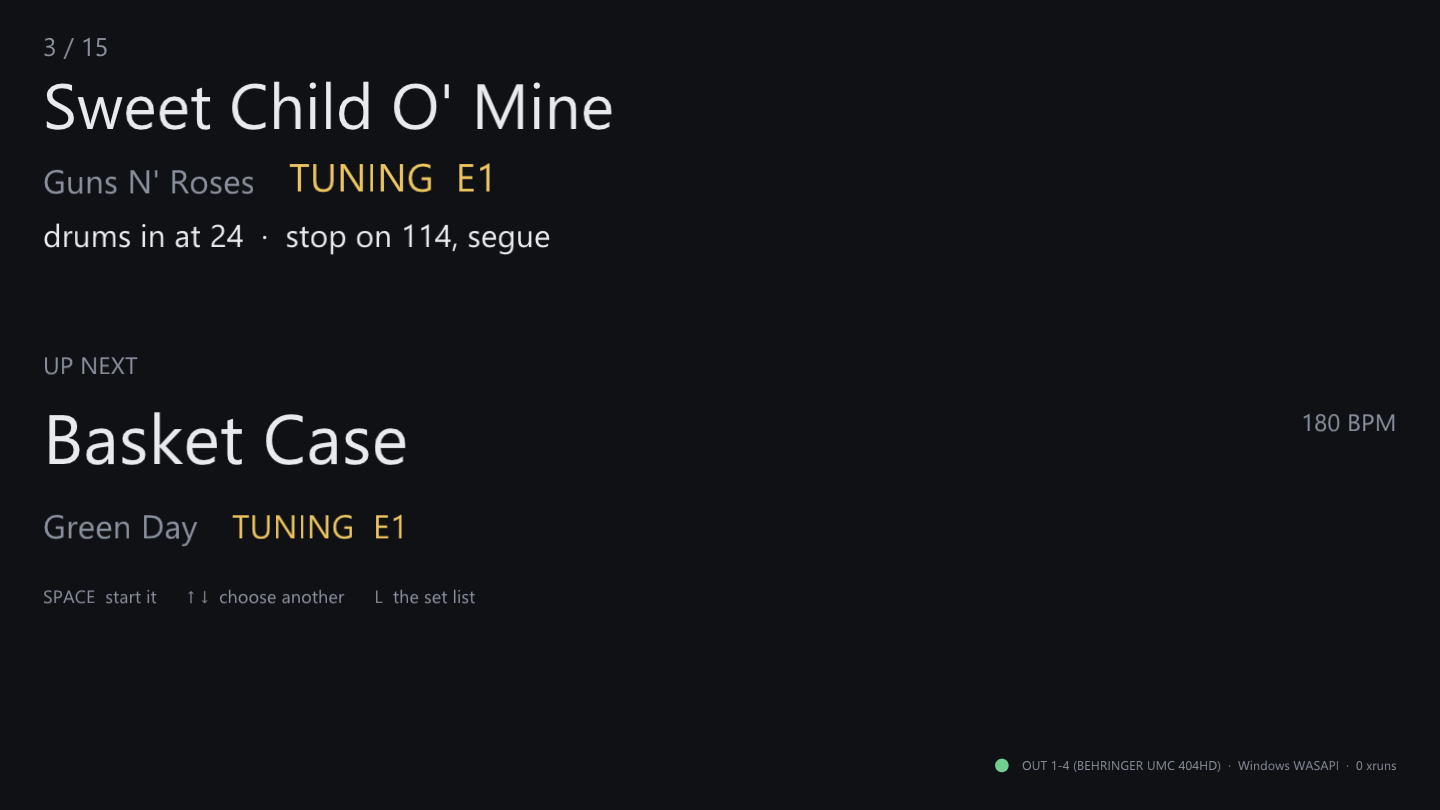
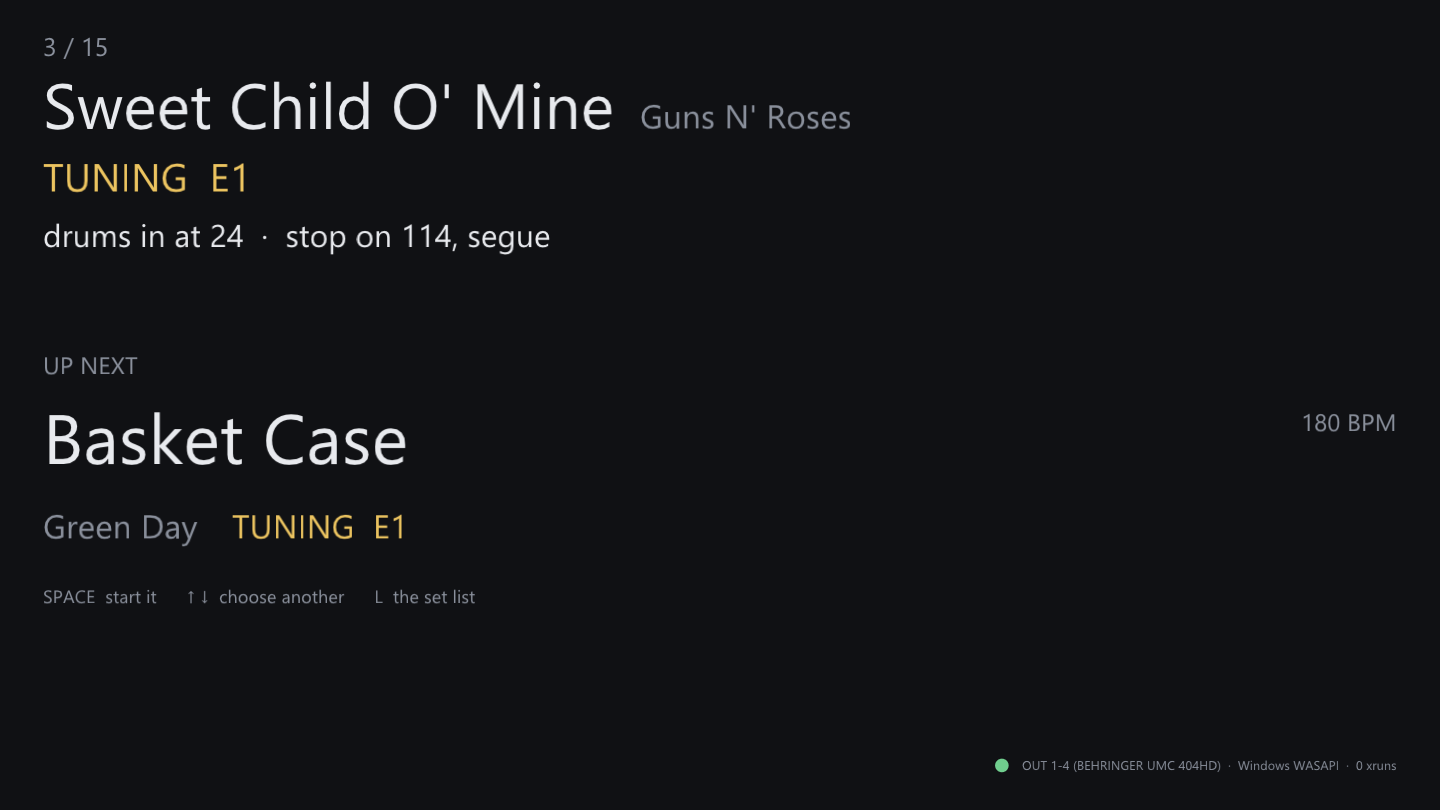
Renaming a song keeps its light cues, and the stage header reads on one line
**The bug.** Cues are matched to a song by title and nothing else, so the
moment a title changed the song was matched to nothing: the editor's
lighting section emptied as you typed, and the cues sat in the file under a
name no song had any more. Copying a template song and retitling the copy -
which is the reason to have a template song - hit it every time.

The cue file's entry is now renamed with the song, on commit rather than per
keystroke, since "Low Rider" arrives one letter at a time and any prefix of
it could collide with a real title. Cues already filed under the new title
are left alone and the song matches those instead; the editor says so, and
nothing is destroyed to make room.

Renaming the entry rather than giving songs an id of their own. The cue file
is written by the lighting side too, from song titles, so an id would have
to be agreed, generated and kept in step over there as well - and a file
with two keys has two ways to disagree with the set list instead of one. The
cost is that a song renamed here must be renamed on the lighting side before
the show is next generated, which the docs now say.

**The play screen.** The artist moves up beside the title: one line is one
answer to "what is this", and it leaves the line below to the tuning, which
is the thing somebody has to act on. It drops back to its own line when the
title is long enough that the pair would run under the bar number.
[…]

Changed region(s): [[0.1875, 0.1852, 0.3438, 0.2469], [0.0312, 0.1852, 0.1875, 0.2469], [0.4375, 0.1235, 0.5938, 0.1543]]

diff --git a/tests/test_lightshow.c b/tests/test_lightshow.c
@@ -543,6 +543,91 @@ static void test_copying_a_songs_cues(void) {
 
 /* Cues are in bar order in the file (contract section 4), and adding one
  * appends it, so something has to put them back in order after an edit. */
+/* Renaming a song in the set list has to take its cues with it, or typing a
+ * new title silently unhooks a song from every cue it had - the file still
+ * holds them, under a name nothing matches any more. */
+static void test_renaming_a_song(void) {
+    bt_lightshow *sh = NULL;
+    const char *src =
+        "{\"format\":\"random-riot-lighting/1\",\"songs\":"
+        "[{\"title\":\"Generic\",\"events\":["
+        "{\"bar\":1,\"ch\":1,\"note\":5,\"label\":\"intro\"},"
+        "{\"bar\":17,\"ch\":2,\"note\":6,\"type\":\"hit\"}]}]}";
+    BT_CHECK(bt_lightshow_load_mem(src, strlen(src), &sh, NULL) == BT_OK);
+
+    BT_CHECK(bt_lightshow_rename_song(sh, "Generic", "Black Hole Sun") == BT_OK);
+    BT_CHECK_EQI(sh->nsongs, 1);
+    BT_CHECK(bt_lightshow_find(sh, "Generic") == NULL);
+    const bt_light_song *ls = bt_lightshow_find(sh, "Black Hole Sun");
+    BT_CHECK(ls != NULL);
+    if (!ls) { bt_lightshow_free(sh); return; }
+    BT_CHECK_EQI(ls->nev, 2);
+    BT_CHECK(!strcmp(ls->ev[0].label, "intro"));
+
+    /* A song with no cues has no entry, and renaming it writes none: an
+     * empty song in a file the lighting side also reads is noise. */
+    const int32_t before = sh->nsongs;
+    BT_CHECK(bt_lightshow_rename_song(sh, "Never Heard Of It", "Fresh") == BT_OK);
+    BT_CHECK(bt_lightshow_find(sh, "Fresh") == NULL);
+    BT_CHECK_EQI(sh->nsongs, before);
+
+    /* An empty entry under the new name is dropped rather than renamed
+     * around: two entries with one title is a file no reader can use. */
+    BT_CHECK(bt_lightshow_add_cue(sh, "Spoonman", NULL) == BT_OK);
+    BT_CHECK(bt_lightshow_remove_cue(sh, "Spoonman", 0) == BT_OK);
+    BT_CHECK_EQI(sh->nsongs, 2);
+    BT_CHECK(bt_lightshow_rename_song(sh, "Black Hole Sun", "Spoonman") == BT_OK);
+    BT_CHECK_EQI(sh->nsongs, 1);
+    BT_CHECK_EQI(bt_lightshow_find(sh, "Spoonman")->nev, 2);
+
+    /* A new name that already has cues of its own is refused outright. The
+     * song matches those now - that is what title matching means - and
+     * destroying them to make room would be the worse of the two. */
+    BT_CHECK(bt_lightshow_add_cue(sh, "Rusty Cage", NULL) == BT_OK);
+    BT_CHECK(bt_lightshow_rename_song(sh, "Spoonman", "Rusty Cage")
+             == BT_ERR_EXISTS);
+    BT_CHECK_EQI(bt_lightshow_find(sh, "Rusty Cage")->nev, 1);
+    BT_CHECK_EQI(bt_lightshow_find(sh, "Spoonman")->nev, 2);
+
+    /* The same, with the empty entry *before* the song being renamed: it is
+     * dropped out of the array first, so the song has moved down a slot by
+     * the time it is given its new name. Getting that wrong renames the
+     * wrong song, and nothing about the file would look broken. */
+    {
+        bt_lightshow *sh2 = NULL;
+        const char *two =
+            "{\"format\":\"random-riot-lighting/1\",\"songs\":"
+            "[{\"title\":\"Placeholder\",\"events\":[]},"
+            "{\"title\":\"Generic\",\"events\":[{\"bar\":4,\"ch\":1,\"note\":7}]}]}";
+        BT_CHECK(bt_lightshow_load_mem(two, strlen(two), &sh2, NULL) == BT_OK);
+        BT_CHECK_EQI(sh2->nsongs, 2);
+        BT_CHECK(bt_lightshow_rename_song(sh2, "Generic", "Placeholder") == BT_OK);
+        BT_CHECK_EQI(sh2->nsongs, 1);
+        BT_CHECK(!strcmp(sh2->song[0].title, "Placeholder"));
+        BT_CHECK_EQI(sh2->song[0].nev, 1);
+        BT_CHECK_EQI(sh2->song[0].ev[0].bar, 4);
+        bt_lightshow_free(sh2);
+    }
+
+    /* Onto itself, and nonsense. */
+    BT_CHECK(bt_lightshow_rename_song(sh, "Spoonman", "Spoonman") == BT_OK);
+    BT_CHECK_EQI(bt_lightshow_find(sh, "Spoonman")->nev, 2);
+    BT_CHECK(bt_lightshow_rename_song(sh, "Spoonman", "") == BT_ERR_RANGE);
+    BT_CHECK(bt_lightshow_rename_song(NULL, "a", "b") == BT_ERR_RANGE);
+
+    /* And the rename survives the round trip, which is the only part of it
+     * that reaches the next launch. */
+    char *text = NULL; size_t len = 0;
+    BT_CHECK(bt_lightshow_to_json(sh, &text, &len) == BT_OK);
+    bt_lightshow *back = NULL;
+    BT_CHECK(bt_lightshow_load_mem(text, len, &back, NULL) == BT_OK);
+    BT_CHECK(bt_lightshow_find(back, "Generic") == NULL);
+    BT_CHECK_EQI(bt_lightshow_find(back, "Spoonman")->nev, 2);
+    free(text);
+    bt_lightshow_free(back);
+    bt_lightshow_free(sh);
+}
+
 static void test_sorting_cues_by_bar(void) {
     bt_lightshow *sh = NULL;
     const char *src =
@@ -728,6 +813,7 @@ int main(void) {
     BT_RUN(test_adding_and_removing_cues);
     BT_RUN(test_copying_a_songs_cues);
     BT_RUN(test_sorting_cues_by_bar);
+    BT_RUN(test_renaming_a_song);
     BT_RUN(test_the_format_tag_follows_the_content);
     BT_RUN(test_reads_both_contract_versions);
     BT_RUN(test_a_count_in_cue_lands_before_the_downbeat);

diff --git a/ui/bt_ui_screens.cpp b/ui/bt_ui_screens.cpp
@@ -426,12 +426,33 @@ void draw_playing(ImDrawList *dl, const bt_ui_state &st, ImVec2 sz) {
 
     if (s) {
         const float title_sz = sz.y * 0.105f;
-        text_at(dl, f, title_sz, ImVec2(pad, sz.y * 0.075f), COL_TEXT, s->title);
+        const float sub_sz   = sz.y * 0.055f;
+        const float title_y  = sz.y * 0.075f;
+        text_at(dl, f, title_sz, ImVec2(pad, title_y), COL_TEXT, s->title);
         float ay = sz.y * 0.195f;
         float ax = pad;
         if (s->artist[0]) {
-            text_at(dl, f, sz.y * 0.055f, ImVec2(ax, ay), COL_DIM, s->artist);
-            ax += text_w(f, sz.y * 0.055f, s->artist) + pad * 0.8f;
+            /* Beside the title, not under it: "song by artist" is one
+             * answer to one question and reads faster on one line - and it
+             * leaves the line below to the tuning, which is the thing
+             * somebody actually has to act on.
+             *
+             * Unless it does not fit. The bar number owns the top right
+             * corner, and a long title plus a long artist would run
+             * underneath it; then the artist goes back to its own line,
+             * which is only where it used to live. */
+            const float x = pad + text_w(f, title_sz, s->title) + pad * 0.6f;
+            const float room = sz.x - pad * 2.0f
+                             - text_w(f, sz.y * 0.110f, "000");
+            if (x + text_w(f, sub_sz, s->artist) < room) {
+                /* Onto the title's baseline rather than its top edge. */
+                text_at(dl, f, sub_sz,
+                        ImVec2(x, title_y + (title_sz - sub_sz) * 0.78f),
+                        COL_DIM, s->artist);
+            } else {
+                text_at(dl, f, sub_sz, ImVec2(ax, ay), COL_DIM, s->artist);
+                ax += text_w(f, sub_sz, s->artist) + pad * 0.8f;
+            }
         }
         /* Beside the artist, in the warm colour it has everywhere else, so
          * glancing up mid-song answers "am I on the right guitar". */
@@ -443,7 +464,7 @@ void draw_playing(ImDrawList *dl, const bt_ui_state &st, ImVec2 sz) {
              * a stage. Nudged down by the difference so the two still sit on
              * one baseline rather than one appearing to float. */
             const float tun_sz = sz.y * 0.065f;
-            text_at(dl, f, tun_sz, ImVec2(ax, ay - (tun_sz - sz.y * 0.055f)),
+            text_at(dl, f, tun_sz, ImVec2(ax, ay - (tun_sz - sub_sz)),
                     COL_ACCENT_T, lbl);
         }
         /* Whatever you wrote to read mid-song. Under the title line, in plain
@@ -480,17 +501,17 @@ void draw_playing(ImDrawList *dl, const bt_ui_state &st, ImVec2 sz) {
          * below it: this is for the far side of the stage too, but a note
          * somebody wrote for tonight outranks the name of a lighting look. */
         const float ly  = sz.y * 0.322f;
-        const float nsz = sz.y * 0.044f;    /* the name          */
-        const float lsz = sz.y * 0.028f;    /* label, and what is next */
+        const float nsz = sz.y * 0.044f;    /* the name        */
+        const float lsz = sz.y * 0.028f;    /* what is next    */
         const float drop = (nsz - lsz) * 0.78f;   /* onto one baseline */
         float x = pad;
 
-        text_at(dl, f, lsz, ImVec2(x, ly + drop), COL_DIM, "LIGHTS");
-        x += text_w(f, lsz, "LIGHTS") + pad * 0.5f;
-
-        /* Before the first cue of a song there is no look to name, and a cue
+        /* No "LIGHTS" in front of it. The blue is what says which line this
+         * is, and a word repeated on screen all night is clutter.
+         *
+         * Before the first cue of a song there is no look to name, and a cue
          * may have been left with no description at all. The dash says so;
-         * a label with nothing after it would read as a bug. */
+         * an empty space where a name goes reads as a bug. */
         const char *now = (st.cue_now && st.cue_now[0]) ? st.cue_now : "-";
         text_at(dl, f, nsz, ImVec2(x, ly), COL_ACCENT, now);
         x += text_w(f, nsz, now) + pad * 0.7f;

diff --git a/ui/btui_main.cpp b/ui/btui_main.cpp
@@ -1848,9 +1848,47 @@ int main(int argc, char **argv) {
                 if (g_edit.can_save_device)
                     bt_device_cfg_save_file(&g_app.dev, g_edit.device_path);
             }
-            /* The two the contract says a person may press: between songs,
-             * and everything off. Sent only because somebody asked - never
-             * on stopping, where stale light beats a surprise. */
+            /* A renamed song keeps its cues: the entry in the cue file is
+             * renamed with it. Title is the only key the file has - §3 of
+             * the contract - so without this, retitling a song leaves its
+             * cues in the file under a name nothing matches, and the
+             * lighting section empties in front of you.
+             *
+             * Renaming the entry rather than giving songs an id of their
+             * own: the cue file is generated by the lighting side from song
+             * titles, so an id would have to be agreed, generated and kept
+             * in step over there too, and a file with two keys has two ways
+             * to disagree with the set list instead of one. */
+            if (g_edit.renamed_from[0]) {
+                const char *from = g_edit.renamed_from;
+                if (g_app.show && g_app.sl && !g_app.show_broken &&
+                    g_edit.song >= 0 && g_edit.song < g_app.sl->nsongs &&
+                    bt_lightshow_find(g_app.show, from)) {
+                    const char *to = g_app.sl->song[g_edit.song].title;
+                    const bt_err re = bt_lightshow_rename_song(g_app.show,
+                                                               from, to);
+                    const bt_light_song *ls = bt_lightshow_find(g_app.show, to);
+                    if (re == BT_OK && ls) {
+                        g_edit.cues_dirty = true;
+                        std::snprintf(g_edit.status, sizeof(g_edit.status),
+                                      "renamed - its %d light cue%s came "
+                                      "along; save to keep them",
+                                      ls->nev, ls->nev == 1 ? "" : "s");
+                    } else if (re == BT_ERR_EXISTS) {
+                        std::snprintf(g_edit.status, sizeof(g_edit.status),
+                                      "there were already light cues for "
+                                      "\"%s\" - this song uses those now, and "
+                                      "the old ones are still under \"%s\"",
+                                      to, from);
+                    } else if (re != BT_OK) {
+                        std::snprintf(g_edit.status, sizeof(g_edit.status),
+                                      "renamed, but its light cues did not "
+                                      "follow: %s", bt_strerror(re));
+                    }
+                }
+                g_edit.renamed_from[0] = 0;
+            }
+
             /* Adding and removing change the length of the array the
              * editor is pointing into, so they happen here rather than
              * while drawing. */
@@ -1915,6 +1953,9 @@ int main(int argc, char **argv) {
                 g_app.cue_song = -1;
             }
 
+            /* The two the contract says a person may press: between songs,
+             * and everything off. Sent only because somebody asked - never
+             * on stopping, where stale light beats a surprise. */
             if (g_edit.want_special != 0 && g_app.midi && g_app.show) {
                 const char *which = g_edit.want_special == 1 ? "between_songs"
                                                              : "stop_all";

diff --git a/src/model/bt_lightshow.c b/src/model/bt_lightshow.c
@@ -242,6 +242,43 @@ bt_err bt_lightshow_copy_song(bt_lightshow *show, const char *from,
     return BT_OK;
 }
 
+bt_err bt_lightshow_rename_song(bt_lightshow *show, const char *from,
+                                const char *to) {
+    if (!show || !from || !*from || !to || !*to) return BT_ERR_RANGE;
+    if (!strcmp(from, to)) return BT_OK;
+
+    int32_t si = -1, di = -1;
+    for (int32_t i = 0; i < show->nsongs; i++) {
+        if (!strcmp(show->song[i].title, from)) si = i;
+        if (!strcmp(show->song[i].title, to))   di = i;
+    }
+    /* A song with no cues renames to nothing at all, which is right: there
+     * is no entry for it and writing one would put an empty song into a
+     * file the lighting side also reads. */
+    if (si < 0) return BT_OK;
+
+    if (di >= 0 && di != si) {
+        /* Something already lights under the new name. Taking it over would
+         * destroy a show somebody built, so refuse and leave both where
+         * they are - the song now matches the cues already filed under its
+         * new title, which is exactly what title matching means, and the
+         * old ones are still there under the old title. */
+        if (show->song[di].nev > 0) return BT_ERR_EXISTS;
+
+        /* An empty entry is not a show. It is dropped rather than renamed
+         * around, because two entries with one title is a file no reader
+         * can make sense of. */
+        free(show->song[di].ev);
+        memmove(&show->song[di], &show->song[di + 1],
+                (size_t)(show->nsongs - di - 1) * sizeof(*show->song));
+        show->nsongs--;
+        if (si > di) si--;
+    }
+
+    snprintf(show->song[si].title, sizeof(show->song[si].title), "%s", to);
+    return BT_OK;
+}
+
 int32_t bt_lightshow_sort_song(bt_lightshow *show, const char *title,
                                int32_t track) {
     bt_light_song *ls = bt_lightshow_song(show, title);

diff --git a/include/backtrack/bt_lightshow.h b/include/backtrack/bt_lightshow.h
@@ -130,6 +130,27 @@ bt_err bt_lightshow_remove_cue(bt_lightshow *show, const char *title, int32_t at
 bt_err bt_lightshow_copy_song(bt_lightshow *show, const char *from,
                               const char *to);
 
+/* Carries a song's cues across to a new title, which is what renaming a song
+ * in the set list means for its lighting.
+ *
+ * Cues are matched to a song by title and nothing else - §3 of the contract -
+ * so without this, typing a new title into the editor silently unhooks the
+ * song from every cue it had. That is the whole bug: the cues are still in
+ * the file, under a name no song has any more.
+ *
+ * Renaming the entry rather than giving songs an id is deliberate. The cue
+ * file is written by the lighting side as well, from song titles; an id
+ * would have to be agreed, generated and kept in step over there too, and a
+ * file with two keys has two ways to disagree with the set list instead of
+ * one.
+ *
+ * A `from` with no entry is not an error - a song with no lighting renames
+ * like any other. BT_ERR_EXISTS means `to` already has cues of its own: they
+ * are left alone, which leaves the song matched to them.
+ */
+bt_err bt_lightshow_rename_song(bt_lightshow *show, const char *from,
+                                const char *to);
+
 /* Puts one song's cues in bar order, which is the order §4 of the contract
  * says a cue file is in. Adding a cue appends it, so this is what keeps that
  * true after an edit; it is also the whole of "the table is sorted", since

diff --git a/ui/bt_ui_edit.cpp b/ui/bt_ui_edit.cpp
@@ -766,6 +766,20 @@ void draw_song_screen(bt_ui_edit &ed) {
 
     ImGui::SetNextItemWidth(360);
     if (ImGui::InputText("title", s.title, sizeof(s.title))) ed.dirty = true;
+    /* A renamed song keeps its lighting. Cues are matched to a song by title
+     * and nothing else, so the moment this field changes the song is matched
+     * to nothing - which is exactly what copying a song to use as a starting
+     * point runs into, since the next thing you do is retitle it.
+     *
+     * On commit, not per keystroke: typing "Low Rider" would otherwise walk
+     * the cue entry through "L", "Lo", "Low"..., and any one of those could
+     * collide with a real title. */
+    if (ImGui::IsItemActivated())
+        std::snprintf(ed.title_was, sizeof(ed.title_was), "%s", s.title);
+    if (ImGui::IsItemDeactivatedAfterEdit() && ed.title_was[0] && s.title[0] &&
+        std::strcmp(ed.title_was, s.title) != 0)
+        std::snprintf(ed.renamed_from, sizeof(ed.renamed_from), "%s",
+                      ed.title_was);
     ImGui::SameLine();
     ImGui::SetNextItemWidth(300);
     if (ImGui::InputText("artist", s.artist, sizeof(s.artist))) ed.dirty = true;

diff --git a/ui/bt_ui_edit.h b/ui/bt_ui_edit.h
@@ -93,6 +93,16 @@ struct bt_ui_edit {
      * a copy has to take a new one, so nothing else would carry them.
      * Empty when no copy is waiting; the host clears it. */
     char             cloned_from[BT_MAX_NAME] = {0};
+    /* Set when a song's title was changed, holding what it was called
+     * before, so the host can carry its light cues across to the new title.
+     * Cues are matched by title and nothing else, so without this, renaming
+     * a song unhooks it from every cue it had and the editor's lighting
+     * section empties as you type. Empty when nothing is waiting; the host
+     * clears it. `title_was` is how the change is noticed: the title as it
+     * stood when the field was clicked into, compared on commit rather than
+     * per keystroke, since "Black Hole Sun" arrives one letter at a time. */
+    char             renamed_from[BT_MAX_NAME] = {0};
+    char             title_was[BT_MAX_NAME] = {0};
     /* Set when an edit changed the song but not what it sounds like, so the
      * signature moves on without asking the engine to republish. */
     bool             sig_only = false;

diff --git a/docs/lighting.md b/docs/lighting.md
@@ -61,6 +61,22 @@ working on stays highlighted so you can see where it went.
 **Copying a song copies its cues.** Cues are matched to a song by title and a
 copy has to take a new title, so without this the copy would come up dark.
 
+**Renaming a song renames its cues**, for the same reason and more urgently:
+title is the only key the cue file has, so a retitled song would otherwise be
+matched to nothing and the editor's lighting section would empty as you
+typed. The entry is renamed when you finish typing the title, not per
+keystroke. If cues already exist under the new title they are left alone and
+the song matches those instead - the editor says so, and the old ones are
+still in the file under the old name.
+
+Renaming the entry is deliberately not the same as giving each song an id.
+The cue file is written by the lighting side as well, from song titles; an id
+would have to be agreed, generated and kept in step over there too, and a
+file with two keys has two ways to disagree with the set list instead of one.
+What this does mean is that **a song renamed here has to be renamed on the
+lighting side as well** before the show is next generated, or the generator
+will write the old title back in as a second entry.
+
 **The look showing has its name on the play screen**, under the song and the
 band's own note, with the bar of the next change beside it. That is the
 `label` from the cue file - §3 calls it UI-only and this is the UI it is for.

diff --git a/README.md b/README.md
@@ -123,9 +123,11 @@ than the song actually counts in for, because that cue would never fire.
 when you finish typing the bar, not while you type it, and the row stays
 highlighted so you can see where it went.
 
-**Copying a song copies its lighting.** That is most of why you would copy
-one - the same arrangement with a different vocal, or a cover played twice in
-a night.
+**Copying a song copies its lighting, and renaming one keeps it.** Copying is
+most of why you would have a template song at all - a generic set of cues to
+start from - and the next thing you do is retitle the copy. Cues are matched
+to a song by its title, so the rename carries them across; otherwise the copy
+would go dark the moment you named it.
 
 **You can tap the cues in by ear.** Finding the bar a look should change on
 means playing the song and listening for it. Arm `Q` in *edit → lighting*,
